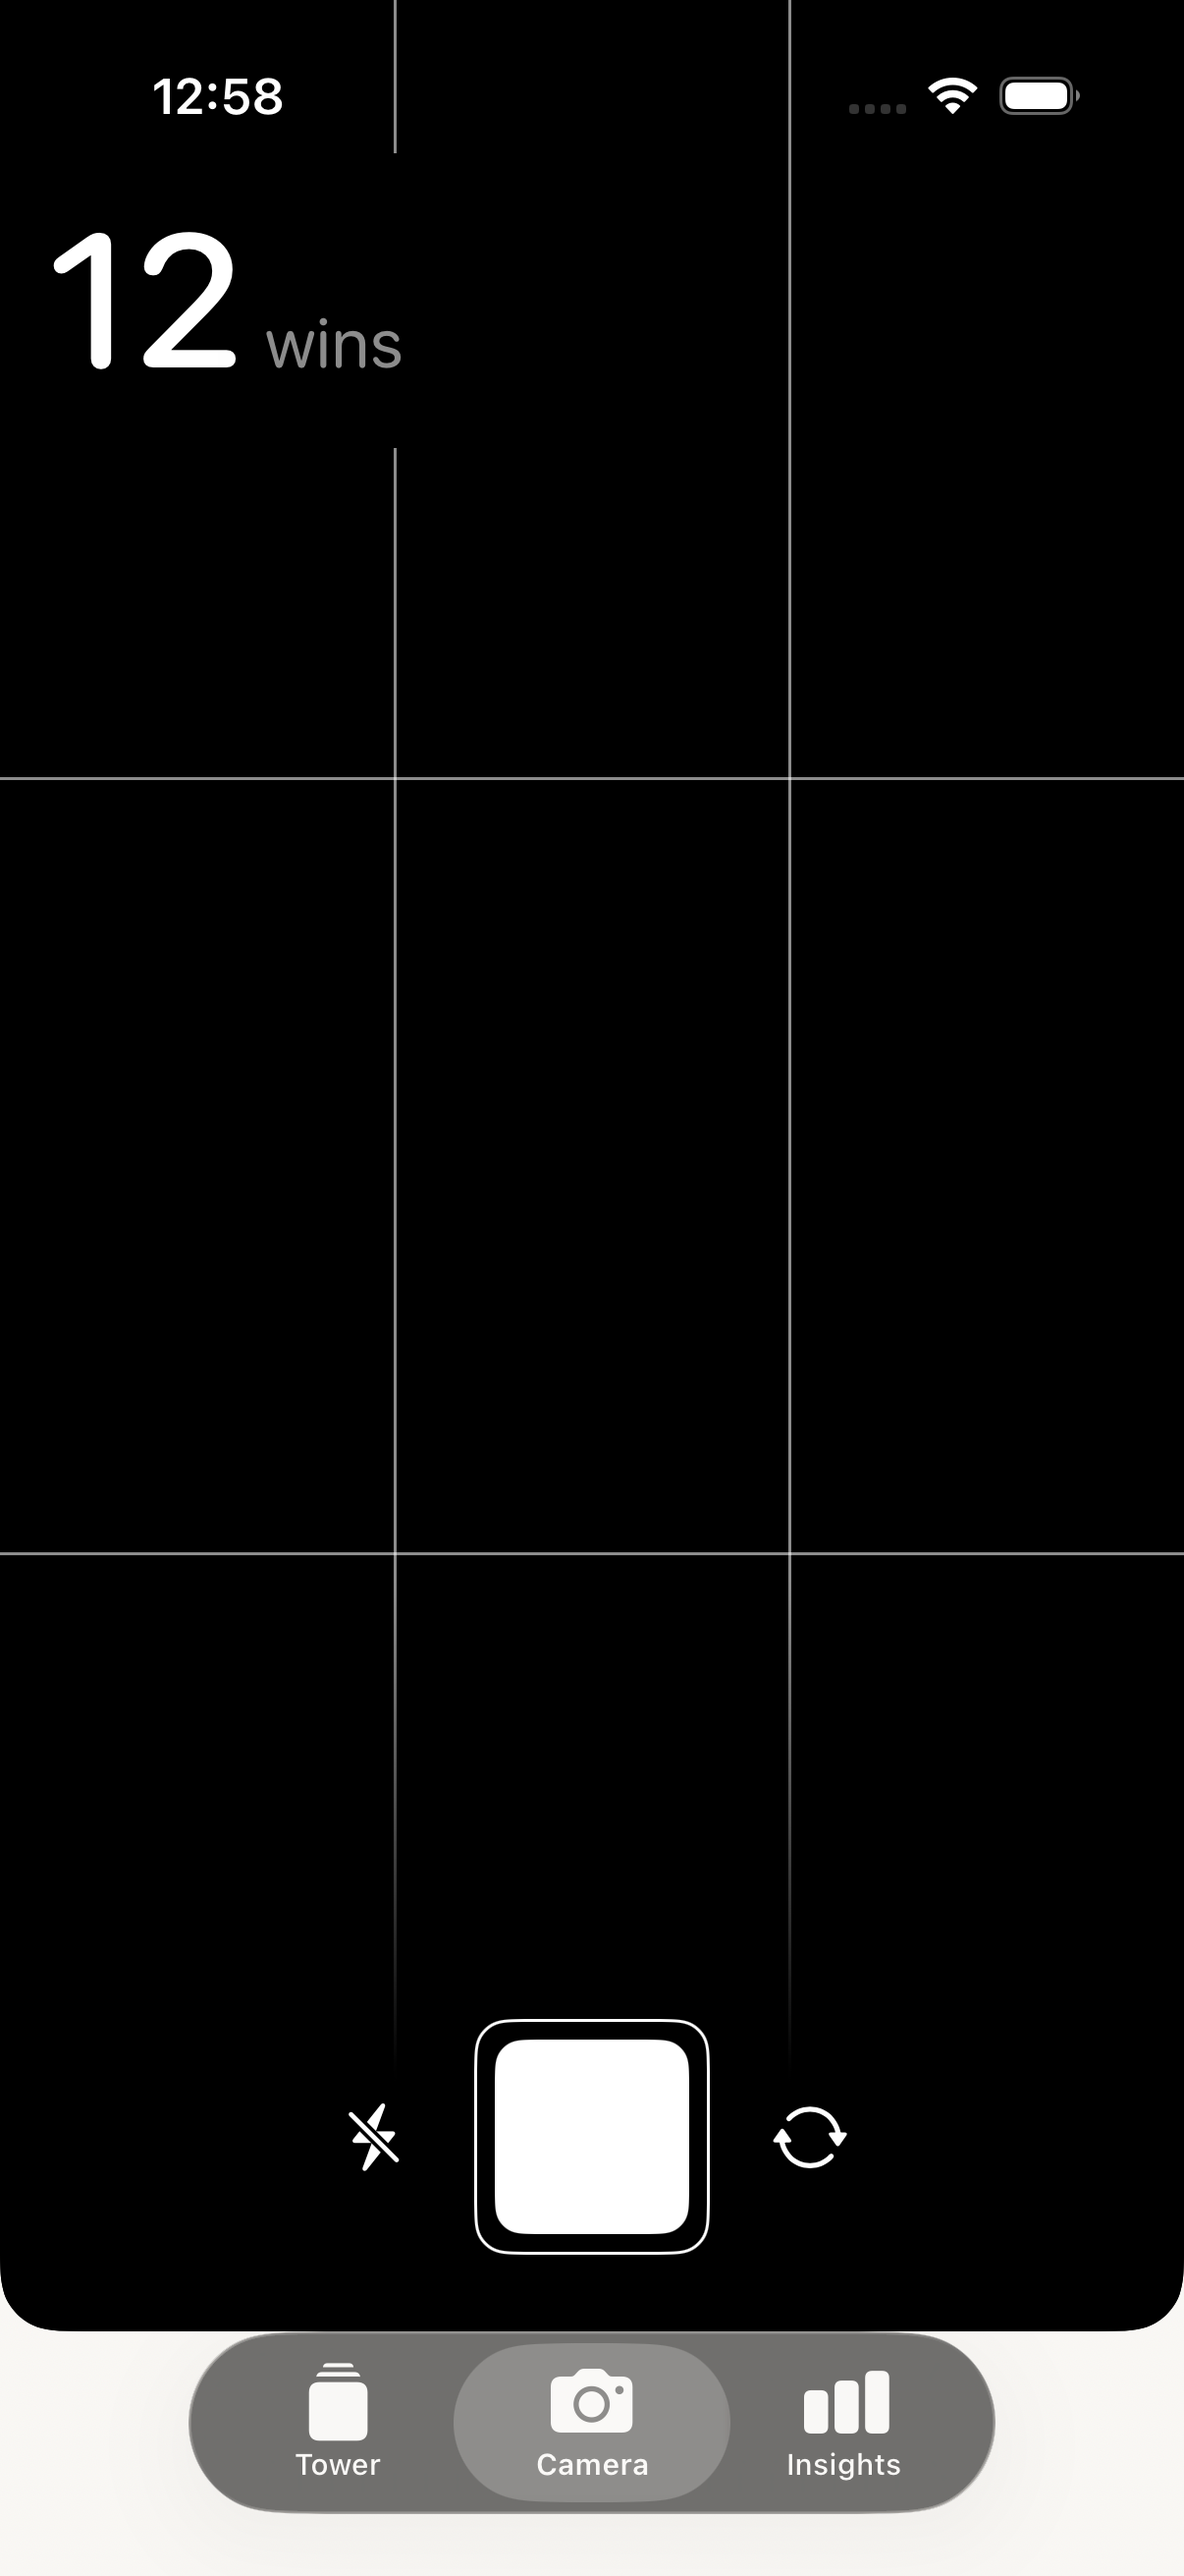
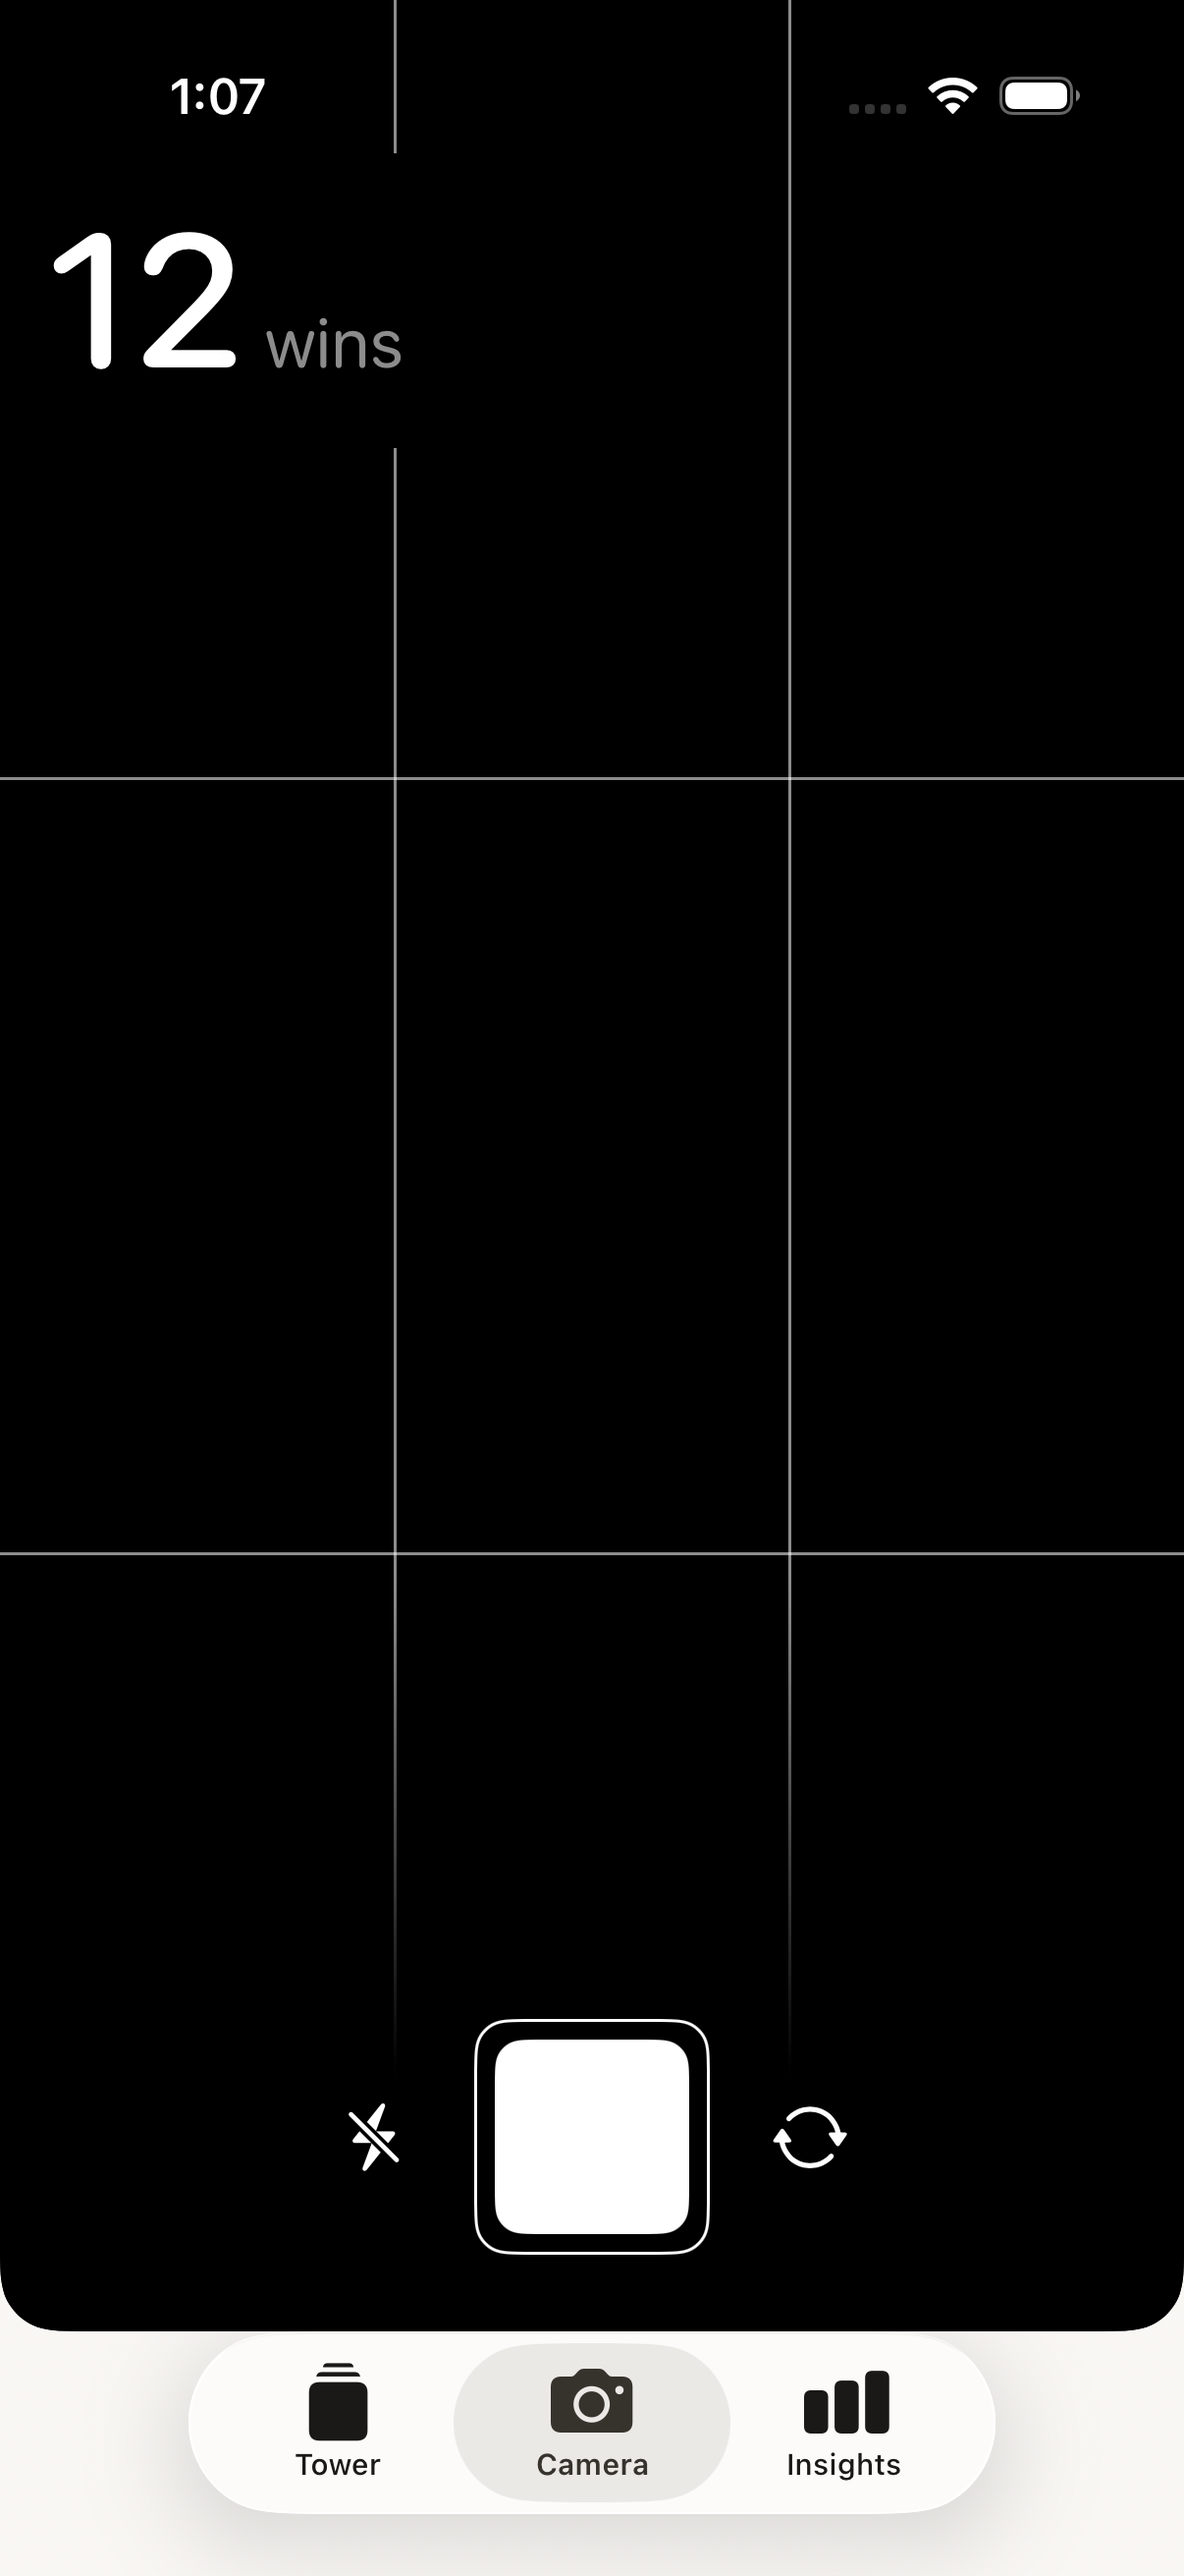
The window never needed to go dark, and fix the add sheet's camera
**"Why does it have to change to dark mode for that" — it does not.**

The reasoning was: the camera wants a white status bar, iOS ties the
status bar to the window's colour scheme, so the window has to go dark,
so the tab bar goes with it. The first two steps are true. The
conclusion was never tested.

With the window light on every tab, full-bleed camera and all, the
status bar still draws white over the black viewfinder — iOS picks the
contrast itself. So: light tab bar with dark icons, white status bar,
camera to the walls. All of it at once, and no scheme switching to be
late or inconsistent.

Two scoped attempts are worth recording as dead ends rather than
retried: `UITabBarAppearance` does not reach the iOS 26 glass tab bar,
and neither does `toolbarColorScheme(.light, for: .tabBar)`. Both left
the bar dark, and the second put the selected item back to dark-on-dark.

The tint goes back to `AppColors.warmBlack` rather than `.primary`,
because with no dark window there is nothing for `.primary` to resolve
differently against — and the highlight is still the same colour as the
icons beside it, which was the point.

**The add sheet's camera is fixed.** Presented on its own there is no
tab bar to leave room for, but it was still reserving the bottom safe
area — so it stopped above the home indicator and left a stray light
strip under it with the rounded corners floating above. `fillsScreen`
makes the modal case take the whole screen and round nothing; the tab
[…]

Changed region(s): [[0.1534, 0.8959, 0.859, 0.9886], [0.1227, 0.0309, 0.2454, 0.0618]]

diff --git a/Strata/Views/CameraView.swift b/Strata/Views/CameraView.swift
@@ -18,6 +18,9 @@ struct CameraView: View {
     var onClose: (() -> Void)? = nil
     /// Today's count, shown in the gap the guides leave open.
     var winCount: Int? = nil
+    /// True when nothing else is on screen — presented as its own sheet rather
+    /// than as a tab with a bar beneath it.
+    var fillsScreen: Bool = false
 
     @State private var camera = CameraService()
     @State private var flashOpacity: Double = 0
@@ -79,68 +82,53 @@ struct CameraView: View {
 
     var body: some View {
         GeometryReader { geo in
-            // The preview lives INSIDE the safe area, on the app's own
-            // background, rather than under the status bar and the tab bar.
+            let topInset = geo.safeAreaInsets.top
+            // Presented on its own there is no tab bar to leave room for, so
+            // it takes the whole screen. In the tab it stops just above the
+            // bar, which is what keeps the app's light ground under the bar
+            // rather than a black viewfinder.
             //
-            // Three complaints had one cause. The tab bar is Liquid Glass: it
-            // samples whatever is behind it, so a full-bleed black viewfinder
-            // turned it dark, and it re-sampled only once the black had
-            // finished sliding away — which is the lag between leaving the
-            // camera and the bar going light again. Sitting the preview above
-            // it means there is never anything dark to sample, so the bar is
-            // light on every screen and there is no transition to be late.
-            //
-            // Same for the status bar: on the warm ground its dark text is
-            // legible on its own, so the pale gradient that was propping it up
-            // is gone.
-            //
-            // And the thirds are now thirds of the PREVIEW. Drawn over the
-            // whole screen they were exact but did not look it — the bottom
-            // third was partly behind the tab bar, so the middle band read as
-            // longer than the two it sits between.
+            // Without this the modal camera drew to the top of the home
+            // indicator and left a stray light strip below itself with the
+            // rounded corners floating above it — which is what was broken
+            // about the add sheet's camera.
+            let bottomInset = fillsScreen ? geo.safeAreaInsets.bottom : 0
             let w = geo.size.width
-            // Full width, hard to the top and the side walls, and stopping
-            // just above the tab bar.
-            let h = geo.size.height + geo.safeAreaInsets.top
+            let h = geo.size.height + topInset + bottomInset
 
             ZStack {
                 CameraPreview(session: camera.session)
 
-                guides(w: w, h: h, topInset: geo.safeAreaInsets.top)
+                guides(w: w, h: h, topInset: topInset)
                     .allowsHitTesting(false)
 
-                header(topInset: geo.safeAreaInsets.top)
+                header(topInset: topInset)
 
-                controls(w: w, h: h)
+                controls(w: w, h: h, bottomInset: bottomInset)
 
                 warmFlash
                     .allowsHitTesting(false)
             }
             .frame(width: w, height: h)
             .background(Color(red: 0.031, green: 0.031, blue: 0.031))
-            // Square at the top where it meets the edge of the screen, rounded
-            // where it ends — which is the shape the Figma draws, and only
-            // makes sense because something is behind it.
+            // Square where it meets the edge of the screen, rounded where it
+            // stops short of one — the shape the Figma draws, and one that
+            // only makes sense because something is behind it. Full screen, it
+            // rounds nothing.
             .clipShape(
                 .rect(
                     topLeadingRadius: 0,
-                    bottomLeadingRadius: cornerRadius,
-                    bottomTrailingRadius: cornerRadius,
+                    bottomLeadingRadius: fillsScreen ? 0 : cornerRadius,
+                    bottomTrailingRadius: fillsScreen ? 0 : cornerRadius,
                     topTrailingRadius: 0
                 )
             )
-            .offset(y: -geo.safeAreaInsets.top)
+            .offset(y: -topInset)
         }
-        // No `.ignoresSafeArea` on the GeometryReader.
-        //
-        // It reports ZERO insets once you tell it to ignore them, so the
-        // header lost the value it needs to clear the notch and printed the
-        // count straight through the clock. The reader keeps its real insets;
-        // the preview reaches the top by being drawn taller and offset up by
-        // exactly that inset instead.
-        //
-        // The viewfinder reaches the top and both walls; only the bottom stays
-        // clear, so the tab bar keeps the app's own light ground under it.
+        // No `.ignoresSafeArea` on the GeometryReader: it reports ZERO insets
+        // once told to ignore them, and the header needs the real value to
+        // clear the notch. The preview reaches the edges by being drawn taller
+        // and offset instead.
         .background { WarmBackground().ignoresSafeArea() }
         .task { await camera.start() }
         .onDisappear {
@@ -255,8 +243,8 @@ struct CameraView: View {
 
     // MARK: - Controls
 
-    private func controls(w: CGFloat, h: CGFloat) -> some View {
-        let shutterCentre = h - shutterOuter / 2 - 26
+    private func controls(w: CGFloat, h: CGFloat, bottomInset: CGFloat) -> some View {
+        let shutterCentre = h - bottomInset - shutterOuter / 2 - 26
         // Where a thumb already is. The two settings you actually change while
         // shooting were in the top right corner, which on a phone this size is
         // a two-handed reach — so in practice you either put the phone down or

diff --git a/Strata/Views/MainAppView.swift b/Strata/Views/MainAppView.swift
@@ -382,7 +382,6 @@ struct MainAppView: View {
         TabView(selection: $selectedTab) {
             Tab("Tower", systemImage: "square.stack.fill", value: StrataTab.tower) {
                 towerTabRoot
-                    .preferredColorScheme(.light)
             }
             // No badge. It counted blocks queued to drop, which is an
             // implementation detail measured in milliseconds — it flashed a
@@ -403,21 +402,22 @@ struct MainAppView: View {
             // you can name it after. Shooting from here logs the win straight
             // away with the photo already on it.
             Tab("Camera", systemImage: "camera.fill", value: StrataTab.camera) {
-                // Dark here, light everywhere else.
+                // The window stays light. All of it, always.
                 //
-                // This is not the app having a dark mode. It is that the
-                // camera is a hole in the page — the lens is off, so it is
-                // black, and white is what shows up on black. The window
-                // scheme is the only supported route to a light status bar,
-                // and it is window-scoped, so every other tab asserts `.light`
-                // and the window is simply whatever tab you are looking at.
+                // The camera would like a white status bar, and iOS ties the
+                // status bar's colour to the WINDOW's scheme — there is no
+                // per-screen route. Two scoped APIs were tried and neither
+                // reaches the iOS 26 tab bar: `UITabBarAppearance` (the glass
+                // bar does not use the proxy) and
+                // `toolbarColorScheme(.light, for: .tabBar)` (no effect). So
+                // the choice is a white status bar OR a light tab bar, and it
+                // cannot be both.
                 //
-                // The tab bar goes dark with it, which is now right rather
-                // than a bug: with `.tint(.primary)` the selected item is
-                // white on the camera and black everywhere else, so the
-                // highlight is always the same colour as the icons beside it.
+                // The tab bar wins. It is on screen on every tab; the status
+                // bar is four glyphs on one. The cost is that over a dark
+                // scene the clock is low contrast — a real trade, and the one
+                // that keeps the app light throughout as decided.
                 cameraTab
-                    .preferredColorScheme(.dark)
             }
             Tab("Insights", systemImage: "chart.bar", value: StrataTab.insights) {
                 NavigationStack {
@@ -441,17 +441,16 @@ struct MainAppView: View {
                         )
                     }
                 }
-                .preferredColorScheme(.light)
             }
         }
         // The highlight is the icon colour, not an accent.
         //
         // The tab bar was tinted with the app's warm accent, which made the
         // selected item a third colour that appears nowhere else in the
-        // chrome. `.primary` resolves to black on the light tabs and white on
-        // the camera, so the selected item is always simply the same colour as
-        // the icons next to it, only filled in.
-        .tint(.primary)
+        // chrome. With the bar pinned light, its icons are dark on every
+        // screen, so the selected item is the same colour as the ones beside
+        // it and simply filled in.
+        .tint(AppColors.warmBlack)
         .modifier(TabBarCollapseModifier())
         .onChange(of: selectedTab) { _, newTab in
             HapticsEngine.tick()

diff --git a/Strata/Views/AddWinSheet.swift b/Strata/Views/AddWinSheet.swift
@@ -107,8 +107,10 @@ struct AddWinSheet: View {
                     photo = image
                     showCamera = false
                 },
-                onClose: { showCamera = false }
+                onClose: { showCamera = false },
+                fillsScreen: true
             )
+            .preferredColorScheme(.dark)
         }
         // Two sources, asked once.
         //
